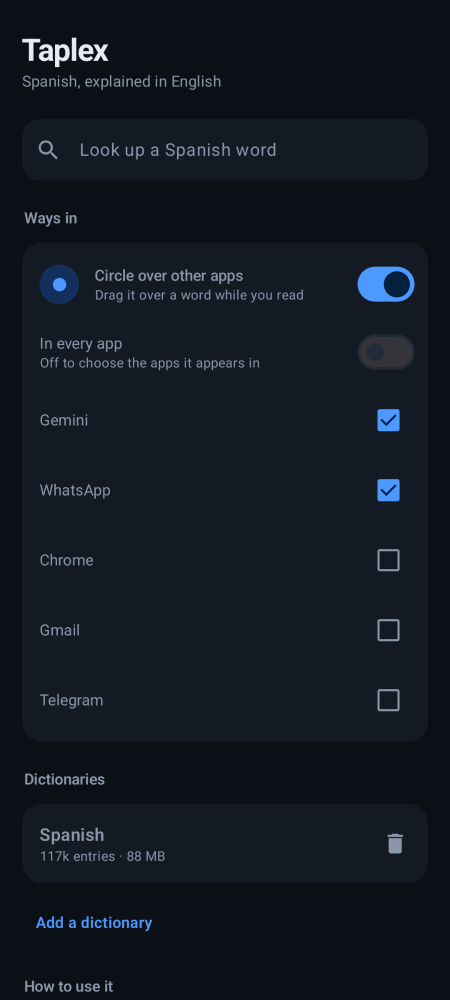
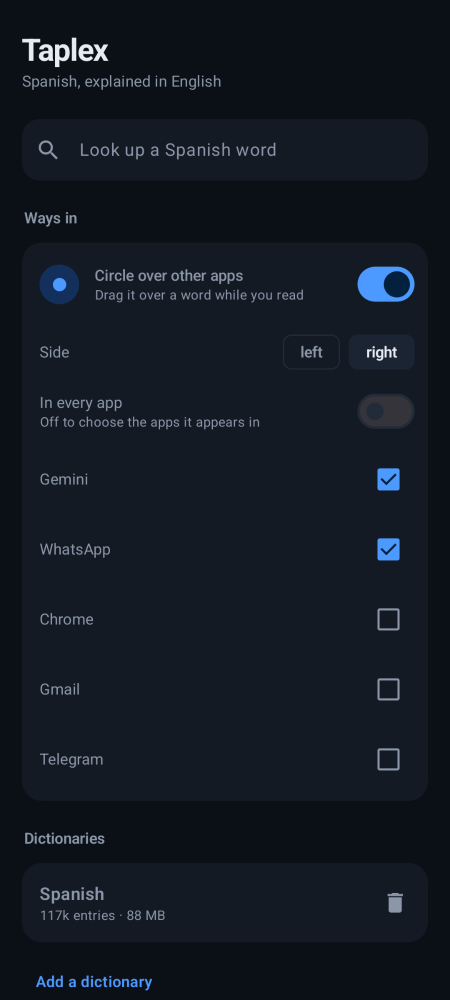
Give the ball weight, keep the answer in one place, and stop the edge swipe going back
The ball is on the end of the thread rather than nailed to a point above the finger. It is
pulled towards where the hand is holding it, it has weight, and it swings past and settles
instead of stopping dead where the hand stopped - which is what makes the thread read as a
leash. It never falls further behind than the leash is long, so a fling cannot leave it
halfway up the screen, and what is under it is asked half as often as it is drawn: a word is
a hundred times the distance the ball moves in a frame.

The answer stands in one place: the far side from the hand, the same column every time.
Following the word's own left edge moved it to a new place for every word, so it had to be
found again each time. And it no longer slides in from wherever it was: past a certain
distance it is simply put where it belongs, because what the eye followed was a card
climbing up from below the word - the very flicker the sliding was meant to avoid.

The mark lives on a side the reader picks and stays there, rather than parking on whichever
side the hand happened to finish on. The answer keeps to the other side of it.

The mark rests against the edge of the screen, which is where a swipe inwards means back, so
dragging it went back instead of picking it up, at random. That strip is now claimed as the
mark's own.

Claude-Session: https://claude.ai/code/session_01PKgmfBqV4zmMFvjP79icSi

diff --git a/app/src/main/java/de/tieo/taplex/HoverController.kt b/app/src/main/java/de/tieo/taplex/HoverController.kt
@@ -92,16 +92,22 @@ class HoverController(
         refresh()
         val view = BubbleView(context)
         val size = (BUBBLE_DP * density).toInt()
-        if (bubbleX < 0) {
-            val screen = screenSize()
-            bubbleX = screen.width() - size - (16 * density).toInt()
-            bubbleY = screen.height() / 2
-        }
+        val screen = screenSize()
+        bubbleX = restingX(size)
+        if (bubbleY <= 0) bubbleY = screen.height() / 2
         view.masked = false
         runCatching { windowManager.addView(view, bubbleParams(size)) }
             .onFailure { Journal.failed("putting the circle up", it) }
             .onSuccess { Journal.note("circle up at $bubbleX,$bubbleY") }
         bubble = view
+    }
+
+    /** Put the mark back on the side it lives on, now that the side may have changed. */
+    fun repark() {
+        val view = bubble ?: return
+        val size = (BUBBLE_DP * density).toInt()
+        bubbleX = restingX(size)
+        runCatching { windowManager.updateViewLayout(view, bubbleParams(size)) }
     }
 
     fun disarm() {
@@ -329,6 +335,15 @@ class HoverController(
             .start()
     }
 
+    /**
+     * Where the mark rests, which is a side the reader chose rather than the side the hand
+     * happened to finish on.
+     */
+    private fun restingX(size: Int): Int {
+        val margin = (16 * density).toInt()
+        return if (Prefs(context).markOnRight) screenSize().width() - size - margin else margin
+    }
+
     private fun cardParams(x: Int, y: Int, fromBottom: Boolean = false) = WindowManager.LayoutParams(
         (screenSize().width() * 0.82f).toInt(),
         WRAP,
@@ -362,7 +377,11 @@ class HoverController(
         val maxHeight = (screen.height() * 0.45f).toInt()
         val maxX = (screen.width() - (screen.width() * 0.82f).toInt() - margin)
             .coerceAtLeast(margin)
-        val x = word.left.coerceIn(margin, maxX)
+        // The same place every time, and away from the hand. Following the word's own left
+        // edge moved the answer to a new column for every word, so it had to be found again
+        // each time; and the hand comes in from the side the mark rests on, so the answer
+        // goes to the other one.
+        val x = if (Prefs(context).markOnRight) margin else maxX
 
         // Everything from the top of the circle down is the word, the circle over it, or
         // the hand below that, so the card hangs by its bottom edge from there. Near the
@@ -391,8 +410,10 @@ class HoverController(
         val was = view.layoutParams as? WindowManager.LayoutParams
         cardMove?.cancel()
         cardMove = null
+        val step = kotlin.math.abs(was?.y?.minus(params.y) ?: 0) +
+            kotlin.math.abs(was?.x?.minus(params.x) ?: 0)
         if (was != null && was.gravity == params.gravity && view.alpha > 0f &&
-            (was.x != params.x || was.y != params.y)
+            step in 1..(NEAR_DP * density).toInt()
         ) {
             // The card follows the circle from word to word. Jumping there reads as a
             // second card rather than as the same one moving, and the eye loses it.
@@ -550,6 +571,21 @@ class HoverController(
     /** The circle: a handle to drag, and the thing that says where the lookup is aimed. */
     private inner class BubbleView(context: Context) : HoverBubbleView(context) {
 
+        /**
+         * The strip the mark occupies belongs to the mark, not to the system.
+         *
+         * It rests against the edge of the screen, which is where a swipe inwards means
+         * "back". Dragging it therefore went back instead of picking it up, at random,
+         * depending on how straight the first few pixels were. Claiming the strip stops the
+         * system reading a drag that starts on the mark as a gesture of its own.
+         */
+        override fun onLayout(changed: Boolean, l: Int, t: Int, r: Int, b: Int) {
+            super.onLayout(changed, l, t, r, b)
+            if (android.os.Build.VERSION.SDK_INT >= android.os.Build.VERSION_CODES.Q) {
+                systemGestureExclusionRects = listOf(Rect(0, 0, width, height))
+            }
+        }
+
         private val slop = ViewConfiguration.get(context).scaledTouchSlop
         private val longPress = Runnable {
             longPressed = true
@@ -568,6 +604,60 @@ class HoverController(
 
         /** Whether the current has been struck up out of the mark yet, this gesture. */
         private var formed = false
+
+        // The ball is not nailed to a point above the finger; it is on the end of the
+        // thread. It is pulled towards where the finger is holding it, it has weight, and
+        // it swings past and settles rather than stopping where the hand stopped - which is
+        // what makes the thread read as a leash instead of a stick.
+        private var ballX = 0f
+        private var ballY = 0f
+        private var ballVx = 0f
+        private var ballVy = 0f
+        private var wantX = 0f
+        private var wantY = 0f
+        private var fingerAtX = 0f
+        private var fingerAtY = 0f
+        private var lastSwing = 0L
+        private var asked = false
+
+        private val swing = object : android.view.Choreographer.FrameCallback {
+            override fun doFrame(frameTimeNanos: Long) {
+                if (!active) return
+                val now = android.os.SystemClock.uptimeMillis()
+                val dt = if (lastSwing == 0L) 0.016f else (now - lastSwing) / 1000f
+                lastSwing = now
+                step(dt.coerceIn(0.001f, 0.05f))
+                android.view.Choreographer.getInstance().postFrameCallback(this)
+            }
+        }
+
+        /** One frame of the leash: pulled towards where it is wanted, and heavy. */
+        private fun step(dt: Float) {
+            val ax = (wantX - ballX) * STIFFNESS - ballVx * DAMPING
+            val ay = (wantY - ballY) * STIFFNESS - ballVy * DAMPING + GRAVITY * density
+            ballVx += ax * dt
+            ballVy += ay * dt
+            ballX += ballVx * dt
+            ballY += ballVy * dt
+            // Never so far behind that it is somewhere else entirely: a fling would leave
+            // the ball halfway up the screen from where the hand is.
+            val slack = LEASH_DP * density
+            val dx = ballX - wantX
+            val dy = ballY - wantY
+            val far = kotlin.math.hypot(dx, dy)
+            if (far > slack) {
+                ballX = wantX + dx / far * slack
+                ballY = wantY + dy / far * slack
+            }
+            val radius = width / 2f
+            mist?.follow(fingerAtX, fingerAtY, ballX, ballY, radius)
+            // The thread is redrawn every frame because that is what makes it move; what is
+            // under the ball is asked half as often, because a word is a hundred times the
+            // size of the distance the ball travels in a frame and reading the screen for
+            // one is not free.
+            asked = !asked
+            if (asked) hoverAt(ballX.toInt(), ballY.toInt())
+        }
 
         override fun onTouchEvent(event: MotionEvent): Boolean {
             when (event.actionMasked) {
@@ -604,6 +694,7 @@ class HoverController(
                     )
                     removeCallbacks(longPress)
                     active = false
+                    android.view.Choreographer.getInstance().removeFrameCallback(swing)
                     highlight?.mark(null)
                     // A press that went nowhere puts the circle away rather than leaving a
                     // card sitting over the conversation.
@@ -628,6 +719,8 @@ class HoverController(
                         // it, which on the emulator meant the whole machine went down.
                         mist?.onDissolved = { masked = false; main.post { hideLayer() } }
                         mist?.dissolve(home.x.toFloat(), home.y.toFloat())
+                        ballVx = 0f
+                        ballVy = 0f
                     }
                 }
             }
@@ -635,20 +728,15 @@ class HoverController(
         }
 
         /**
-         * Where the circle goes when the finger leaves: back to the nearer side, so what was
-         * being read is not left with a disc sitting in the middle of it. The card and the
-         * mark stay where they are; only the handle moves.
+         * Where the circle goes when the finger leaves: back to the side it lives on, so
+         * what was being read is not left with a disc sitting in the middle of it, and so
+         * the handle is where it was last time. The card and the mark stay where they are;
+         * only the handle moves.
          */
         fun park(): Point {
-            val screen = screenSize()
-            val margin = (16 * density).toInt()
-            val target = if (bubbleX + width / 2 < screen.width() / 2) {
-                margin
-            } else {
-                screen.width() - width - margin
-            }
+            val target = restingX(width)
             val from = bubbleX
-            val restY = bubbleY.coerceIn(0, screen.height() - height)
+            val restY = bubbleY.coerceIn(0, screenSize().height() - height)
             ValueAnimator.ofInt(from, target).apply {
                 duration = PARK_MS
                 // Comes to rest rather than stopping dead. At a constant speed a thing that
@@ -692,16 +780,24 @@ class HoverController(
             bubbleX = (event.rawX - radius).toInt()
             bubbleY = (event.rawY - radius).toInt()
             windowManager.updateViewLayout(this, bubbleParams(size))
-            val aimY = event.rawY - lift
             handY = event.rawY.toInt()
+            fingerAtX = event.rawX
+            fingerAtY = event.rawY
+            wantX = event.rawX
+            wantY = event.rawY - lift
             if (!formed) {
                 formed = true
                 masked = true
-                mist?.form(event.rawX, event.rawY, event.rawX, aimY, radius)
-            } else {
-                mist?.follow(event.rawX, event.rawY, event.rawX, aimY, radius)
+                // It starts where the hand is and is thrown up to where it is wanted, so
+                // the first thing the ball does is travel the length of the thread.
+                ballX = event.rawX
+                ballY = event.rawY
+                ballVx = 0f
+                ballVy = 0f
+                lastSwing = 0L
+                mist?.form(event.rawX, event.rawY, ballX, ballY, radius)
+                android.view.Choreographer.getInstance().postFrameCallback(swing)
             }
-            hoverAt(event.rawX.toInt(), aimY.toInt())
         }
     }
 
@@ -725,9 +821,27 @@ class HoverController(
          */
         const val CLEARANCE = 1.1f
 
+        /**
+         * How far the answer may travel and still read as the same answer moving.
+         *
+         * Sliding it further than this is worse than putting it there at once: what the eye
+         * follows is a card coming from somewhere it never belonged - below the word, on its
+         * way up - which is exactly the flicker it was meant to avoid.
+         */
+        const val NEAR_DP = 90f
+
         /** Enough of an answer to be worth reading, in dp: above the word is preferred to
          *  below it down to this, because below it is the hand. */
         const val READABLE_DP = 170f
+
+        /** How hard the thread pulls the ball towards where the hand is holding it. */
+        const val STIFFNESS = 260f
+        /** And how quickly the swing dies away. Under-damped, so it settles by swinging. */
+        const val DAMPING = 18f
+        /** The weight on the end of it, in dp a second a second. */
+        const val GRAVITY = 900f
+        /** How far behind the ball may fall before the thread is simply taut, in dp. */
+        const val LEASH_DP = 120f
 
         /** How far off a word the circle may be and still mean it. */
         const val SLACK_DP = 12f

diff --git a/app/src/main/java/de/tieo/taplex/TaplexScreen.kt b/app/src/main/java/de/tieo/taplex/TaplexScreen.kt
@@ -28,6 +28,7 @@ import androidx.compose.material.icons.filled.Delete
 import androidx.compose.material.icons.filled.Search
 import androidx.compose.material3.Button
 import androidx.compose.material3.Card
+import androidx.compose.material3.FilterChip
 import androidx.compose.material3.Checkbox
 import androidx.compose.material3.CardDefaults
 import androidx.compose.material3.Icon
@@ -72,6 +73,8 @@ data class UiState(
     val hoverEnabled: Boolean = false,
     /** Whether the circle comes up over every app, or only over the ones chosen below. */
     val hoverEverywhere: Boolean = true,
+    /** Which side of the screen the mark rests on, and the answer keeps away from. */
+    val markOnRight: Boolean = true,
     /** Every app with a launcher entry, and whether the circle is wanted in it. */
     val apps: List<AppChoice> = emptyList(),
     val query: String = "",
@@ -105,6 +108,7 @@ data class ScreenActions(
     val onCancelBuild: () -> Unit = {},
     val onHoverChanged: (Boolean) -> Unit = {},
     val onHoverEverywhereChanged: (Boolean) -> Unit = {},
+    val onMarkSideChanged: (Boolean) -> Unit = {},
     val onHoverAppToggled: (String) -> Unit = {},
     val onQueryChanged: (String) -> Unit = {},
     val onSearch: () -> Unit = {},
@@ -694,6 +698,30 @@ private fun HoverCard(state: UiState, actions: ScreenActions) {
  */
 @Composable
 private fun HoverScope(state: UiState, actions: ScreenActions) {
+    // Which side it lives on. One side, chosen once: a handle that moves to whichever side
+    // the hand last finished on has to be looked for every time, and the answer that keeps
+    // away from the hand moves with it.
+    Row(
+        Modifier.padding(start = 16.dp, end = 12.dp, bottom = 6.dp),
+        verticalAlignment = Alignment.CenterVertically
+    ) {
+        Text(
+            stringResource(R.string.hover_side),
+            style = MaterialTheme.typography.bodyMedium,
+            modifier = Modifier.weight(1f)
+        )
+        FilterChip(
+            selected = !state.markOnRight,
+            onClick = { actions.onMarkSideChanged(false) },
+            label = { Text(stringResource(R.string.hover_side_left)) }
+        )
+        Spacer(Modifier.width(8.dp))
+        FilterChip(
+            selected = state.markOnRight,
+            onClick = { actions.onMarkSideChanged(true) },
+            label = { Text(stringResource(R.string.hover_side_right)) }
+        )
+    }
     Row(
         Modifier.padding(start = 16.dp, end = 12.dp, bottom = 6.dp),
         verticalAlignment = Alignment.CenterVertically

diff --git a/app/src/main/java/de/tieo/taplex/MainActivity.kt b/app/src/main/java/de/tieo/taplex/MainActivity.kt
@@ -75,6 +75,7 @@ private fun Main() {
     var picking by remember { mutableStateOf(false) }
     var hovering by remember { mutableStateOf(prefs.hoverEnabled) }
     var everywhere by remember { mutableStateOf(prefs.hoverEverywhere) }
+    var onRight by remember { mutableStateOf(prefs.markOnRight) }
     var chosen by remember { mutableStateOf(prefs.hoverPackages) }
     // Every app with a launcher entry, which is what a reader means by "an app". Read off
     // the main thread: a phone with a few hundred of them takes a moment over it.
@@ -102,7 +103,7 @@ private fun Main() {
         onDispose { owner.lifecycle.removeObserver(watcher) }
     }
 
-    val state = remember(reread, build, hovering, everywhere, chosen, apps, query, answer) {
+    val state = remember(reread, build, hovering, everywhere, onRight, chosen, apps, query, answer) {
         UiState(
             lookupEnabled = lookupEnabled(context),
             canDrawOverlay = Settings.canDrawOverlays(context),
@@ -118,6 +119,7 @@ private fun Main() {
             build = build,
             hoverEnabled = hovering,
             hoverEverywhere = everywhere,
+            markOnRight = onRight,
             apps = apps.map { it.copy(chosen = it.pkg in chosen) },
             query = query,
             answer = answer
@@ -176,6 +178,13 @@ private fun Main() {
             onHoverEverywhereChanged = { wanted ->
                 prefs.hoverEverywhere = wanted
                 everywhere = wanted
+            },
+            onMarkSideChanged = { right ->
+                prefs.markOnRight = right
+                onRight = right
+                // The mark moves to the side it was just given rather than at the end of
+                // the next drag, since the point of choosing was to know where it is.
+                TaplexAccessibilityService.running?.repark()
             },
             onHoverAppToggled = { pkg ->
                 val next = if (pkg in chosen) chosen - pkg else chosen + pkg

diff --git a/app/src/main/java/de/tieo/taplex/Prefs.kt b/app/src/main/java/de/tieo/taplex/Prefs.kt
@@ -21,6 +21,16 @@ class Prefs(context: Context) {
         set(value) = sp.edit().putBoolean(KEY_HOVER, value).apply()
 
     /**
+     * Which side of the screen the mark lives on.
+     *
+     * One side, always the same one: a handle that parks itself on whichever side the hand
+     * happened to end on is a handle that has to be found again every time.
+     */
+    var markOnRight: Boolean
+        get() = sp.getBoolean(KEY_MARK_RIGHT, true)
+        set(value) = sp.edit().putBoolean(KEY_MARK_RIGHT, value).apply()
+
+    /**
      * Whether the circle comes up over every app, which is what it does unless told
      * otherwise: reading happens wherever text is, and a reader who wants it in one app
      * says so rather than being made to name the app before anything works at all.
@@ -53,6 +63,7 @@ class Prefs(context: Context) {
         private const val KEY_TARGET = "target"
         private const val KEY_HOVER = "hover"
         private const val KEY_HOVER_ALL = "hoverEverywhere"
+        private const val KEY_MARK_RIGHT = "markOnRight"
         private const val KEY_HOVER_PACKAGES = "hoverPackages"
     }
 }

diff --git a/app/src/test/java/de/tieo/taplex/BookRenders.kt b/app/src/test/java/de/tieo/taplex/BookRenders.kt
@@ -80,8 +80,9 @@ class BookRenders {
         build: PackService.State = PackService.State.Idle,
         hover: Boolean = false,
         everywhere: Boolean = true,
-        apps: List<AppChoice> = emptyList()
-    ) = UiState(lookup, overlay, "en", installed, build, hover, everywhere, apps)
+        apps: List<AppChoice> = emptyList(),
+        onRight: Boolean = true
+    ) = UiState(lookup, overlay, "en", installed, build, hover, everywhere, onRight, apps)
 
     @Test
     fun `main screen nothing set up`() {

diff --git a/app/src/main/java/de/tieo/taplex/TaplexAccessibilityService.kt b/app/src/main/java/de/tieo/taplex/TaplexAccessibilityService.kt
@@ -124,6 +124,11 @@ class TaplexAccessibilityService : AccessibilityService() {
             ?.toString()
     }
 
+    /** The mark moves to the side it has just been given, without waiting for a drag. */
+    fun repark() {
+        hover?.repark()
+    }
+
     private fun hoverController(): HoverController =
         hover ?: HoverController(
             context = this,
